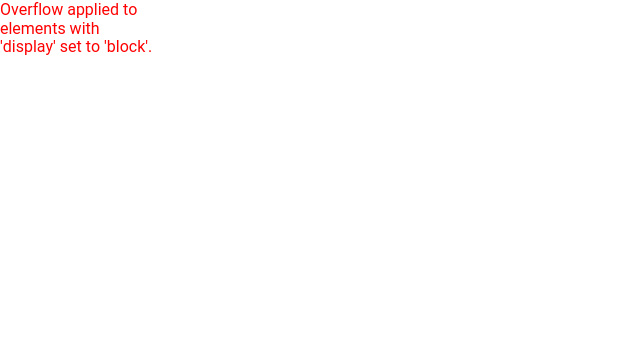
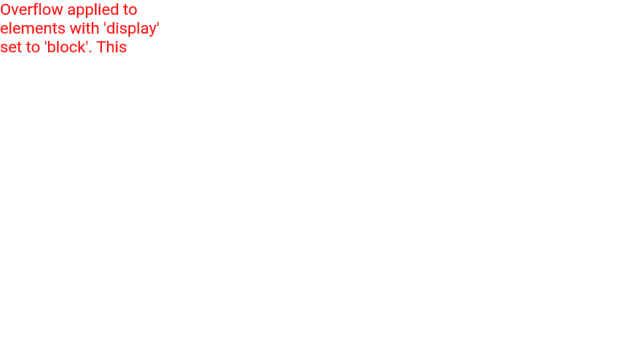
Fix trailing white space text splitting bug
Previously, trailing white space was being included when determining
if a soft wrap segment could fit within the available width on a line.
However, this meant that we were incorrectly rejecting soft wrap
segments that would fit after their trailing white space had been
collapsed. Now, trailing white space is not factored in when
determining if a soft wrap segment can fit on a line in the case where
it will subsequently be collapsed. This fixes b/25501594.

Additionally, a layout test has been added for this case.

Changed region(s): [[0.0, 0.0, 0.25, 0.1528]]

diff --git a/cobalt/layout_tests/testdata/css-text-3/5-collapsible-trailing-white-space-should-not-prevent-soft-wrap-opportunity.html b/cobalt/layout_tests/testdata/css-text-3/5-collapsible-trailing-white-space-should-not-prevent-soft-wrap-opportunity.html
@@ -1,0 +1,33 @@
+<!DOCTYPE html>
+<!--
+ | Wrapping is only performed at an allowed break point, called a soft wrap
+ | opportunity. In most writing systems, in the absence of hyphenation a soft
+ | wrap opportunity occurs only at word boundaries.
+ |   https://www.w3.org/TR/css3-text/#soft-wrap-opportunity
+ |
+ | When a soft wrap segment is being checked, trailing white space that will
+ | collapsed should not be included in the width when determining whether the
+ | segment can fit on the line.
+ -->
+<html>
+<head>
+  <style>
+    div {
+      font-size: 20px;
+      overflow-wrap: break-word;
+    }
+    .containing-block {
+      background-color: #03a9f4;
+      width: 202px;
+    }
+  </style>
+</head>
+<body>
+  <div class="containing-block">
+    <div>abc<span>defg hijklmnopqrst uvwxyz</span></div>
+    <div>abc<span>defg hijklmnopqrst </span></div>
+    <div><span>abc</span>defg hijklmnopqrst uvwxyz</div>
+    <div><span>abc</span>defg hijklmnopqrst </div>
+  </div>
+</body>
+</html>

diff --git a/cobalt/layout_tests/testdata/cssom-view/extensions_to_the_element_interface_get_bounding_client_rect_with_box_splitting.html b/cobalt/layout_tests/testdata/cssom-view/extensions_to_the_element_interface_get_bounding_client_rect_with_box_splitting.html
@@ -72,7 +72,7 @@
     <span id="span-1">Yes, that's written ما اسمك؟ Thanks.</span>
   </div>
   <div id="div-2" class="absolutely-positioned-2">
-    <span id="span-2">Yes, that's written like that in English.</span>
+    <span id="span-2">Yes, it's written like that.</span>
   </div>
 </body>
 </html>

diff --git a/cobalt/layout_tests/testdata/cssom-view/extensions_to_the_html_element_interface_offset_width_height_with_box_splitting.html b/cobalt/layout_tests/testdata/cssom-view/extensions_to_the_html_element_interface_offset_width_height_with_box_splitting.html
@@ -67,7 +67,7 @@
     <span id="span-1">Yes, that's written ما اسمك؟ Thanks.</span>
   </div>
   <div id="div-2" class="absolutely-positioned-2">
-    <span id="span-2">Yes, that's written like that in English.</span>
+    <span id="span-2">Yes, it's written like that.</span>
   </div>
 </body>
 </html>

diff --git a/cobalt/layout/paragraph.cc b/cobalt/layout/paragraph.cc
@@ -17,9 +17,9 @@
 #include "cobalt/layout/paragraph.h"
 
 #include "base/i18n/char_iterator.h"
+#include "cobalt/base/unicode/character.h"
 
 #include "third_party/icu/public/common/unicode/ubidi.h"
-
 
 namespace cobalt {
 namespace layout {
@@ -76,10 +76,10 @@ int32 Paragraph::AppendCodePoint(CodePoint code_point) {
   if (!is_closed_) {
     switch (code_point) {
       case kLineFeedCodePoint:
-        unicode_text_ += UChar(0x0a);
+        unicode_text_ += base::unicode::kNewlineCharacter;
         break;
       case kObjectReplacementCharacterCodePoint:
-        unicode_text_ += UChar(0xfffc);
+        unicode_text_ += base::unicode::kObjectReplacementCharacter;
         break;
     }
   }
@@ -88,8 +88,9 @@ int32 Paragraph::AppendCodePoint(CodePoint code_point) {
 
 bool Paragraph::FindBreakPosition(const scoped_refptr<dom::FontList>& used_font,
                                   int32 start_position, int32 end_position,
-                                  float available_width, bool allow_overflow,
-                                  BreakPolicy break_policy,
+                                  float available_width,
+                                  bool should_collapse_trailing_white_space,
+                                  bool allow_overflow, BreakPolicy break_policy,
                                   int32* break_position, float* break_width) {
   DCHECK(is_closed_);
 
@@ -113,7 +114,8 @@ bool Paragraph::FindBreakPosition(const scoped_refptr<dom::FontList>& used_font,
   // position.
   FindIteratorBreakPosition(
       used_font, line_break_iterator_, start_position, end_position,
-      available_width, allow_soft_wrap_overflow, break_position, break_width);
+      available_width, should_collapse_trailing_white_space,
+      allow_soft_wrap_overflow, break_position, break_width);
 
   // Only continue allowing overflow if the break position has not moved from
   // start, meaning that no break position has been found yet.
@@ -130,9 +132,9 @@ bool Paragraph::FindBreakPosition(const scoped_refptr<dom::FontList>& used_font,
   // (https://www.w3.org/TR/css3-text/#overflow-wrap).
   if ((break_policy == kBreakWord) ||
       (break_policy == kSoftWrapWithBreakWordOnOverflow && allow_overflow)) {
-    FindIteratorBreakPosition(used_font, character_break_iterator_,
-                              *break_position, end_position, available_width,
-                              allow_overflow, break_position, break_width);
+    FindIteratorBreakPosition(
+        used_font, character_break_iterator_, *break_position, end_position,
+        available_width, false, allow_overflow, break_position, break_width);
   }
 
   // No usable break position was found if the break position has not moved
@@ -185,8 +187,11 @@ bool Paragraph::IsRTL(int32 position) const {
   return (GetBidiLevel(position) % 2) == 1;
 }
 
-bool Paragraph::IsSpace(int32 position) const {
-  return unicode_text_[position] == ' ';
+bool Paragraph::IsCollapsibleWhiteSpace(int32 position) const {
+  // Only check for the space character. Other collapsible white space
+  // characters will have already been converted into the space characters and
+  // do not need to be checked against.
+  return unicode_text_[position] == base::unicode::kSpaceCharacter;
 }
 
 bool Paragraph::GetNextRunPosition(int32 position,
@@ -215,7 +220,8 @@ bool Paragraph::IsClosed() const { return is_closed_; }
 void Paragraph::FindIteratorBreakPosition(
     const scoped_refptr<dom::FontList>& used_font,
     icu::BreakIterator* const break_iterator, int32 start_position,
-    int32 end_position, float available_width, bool allow_overflow,
+    int32 end_position, float available_width,
+    bool should_collapse_trailing_white_space, bool allow_overflow,
     int32* break_position, float* break_width) {
   // Iterate through soft wrap locations, beginning from the passed in start
   // position. Continue until TryIncludeSegmentWithinAvailableWidth() returns
@@ -226,7 +232,8 @@ void Paragraph::FindIteratorBreakPosition(
        segment_end = break_iterator->next()) {
     if (!TryIncludeSegmentWithinAvailableWidth(
             used_font, *break_position, segment_end, available_width,
-            &allow_overflow, break_position, break_width)) {
+            should_collapse_trailing_white_space, &allow_overflow,
+            break_position, break_width)) {
       break;
     }
   }
@@ -234,7 +241,8 @@ void Paragraph::FindIteratorBreakPosition(
 
 bool Paragraph::TryIncludeSegmentWithinAvailableWidth(
     const scoped_refptr<dom::FontList>& used_font, int32 segment_start,
-    int32 segment_end, float available_width, bool* allow_overflow,
+    int32 segment_end, float available_width,
+    bool should_collapse_trailing_white_space, bool* allow_overflow,
     int32* break_position, float* break_width) {
   // Add the width of the segment encountered to the total, until reaching one
   // that causes the available width to be exceeded. The previous break position
@@ -244,7 +252,19 @@ bool Paragraph::TryIncludeSegmentWithinAvailableWidth(
       unicode_text_.getBuffer() + segment_start, segment_end - segment_start,
       IsRTL(segment_start), NULL);
 
-  if (!*allow_overflow && *break_width + segment_width > available_width) {
+  // If trailing white space is being collapsed, then it will not be included
+  // when determining if the segment can fit within the available width.
+  // However, it is still added to |break_width|, as it will impact the
+  // width available to additional segments.
+  float collapsible_trailing_white_space_width =
+      should_collapse_trailing_white_space &&
+              IsCollapsibleWhiteSpace(segment_end - 1)
+          ? used_font->GetSpaceWidth()
+          : 0;
+
+  if (!*allow_overflow &&
+      *break_width + segment_width - collapsible_trailing_white_space_width >
+          available_width) {
     return false;
   }
 

diff --git a/cobalt/layout/paragraph.h b/cobalt/layout/paragraph.h
@@ -100,9 +100,10 @@ class Paragraph : public base::RefCounted<Paragraph> {
   // Returns false if no usable break position was found.
   bool FindBreakPosition(const scoped_refptr<dom::FontList>& used_font,
                          int32 start_position, int32 end_position,
-                         float available_width, bool allow_overflow,
-                         BreakPolicy break_policy, int32* break_position,
-                         float* break_width);
+                         float available_width,
+                         bool should_collapse_trailing_white_space,
+                         bool allow_overflow, BreakPolicy break_policy,
+                         int32* break_position, float* break_width);
 
   std::string RetrieveUtf8SubString(int32 start_position,
                                     int32 end_position) const;
@@ -114,7 +115,7 @@ class Paragraph : public base::RefCounted<Paragraph> {
   BaseDirection GetBaseDirection() const;
   int GetBidiLevel(int32 position) const;
   bool IsRTL(int32 position) const;
-  bool IsSpace(int32 position) const;
+  bool IsCollapsibleWhiteSpace(int32 position) const;
   bool GetNextRunPosition(int32 position, int32* next_run_position) const;
   int32 GetTextEndPosition() const;
 
@@ -137,19 +138,24 @@ class Paragraph : public base::RefCounted<Paragraph> {
   // Iterate over text segments as determined by the break iterator's strategy
   // from the starting position, adding the width of each segment and
   // determining the last one that fits within the available width. In the case
-  // where |allow_overflow| is true and  the first segment overflows the width,
+  // where |allow_overflow| is true and the first segment overflows the width,
   // that first overflowing segment will be included. The parameter
   // |break_width| indicates the width of the portion of the substring coming
   // before |break_position|.
   void FindIteratorBreakPosition(const scoped_refptr<dom::FontList>& used_font,
                                  icu::BreakIterator* const break_iterator,
                                  int32 start_position, int32 end_position,
-                                 float available_width, bool allow_overflow,
-                                 int32* break_position, float* break_width);
+                                 float available_width,
+                                 bool should_collapse_trailing_white_space,
+                                 bool allow_overflow, int32* break_position,
+                                 float* break_width);
 
   // Attempt to include the specified segment within the available width. If
   // either the segment fits within the width or |allow_overflow| is true, then
   // |break_position| and |break_width| are updated to include the segment.
+  // NOTE: When |should_collapse_trailing_white_space| is true, then trailing
+  // white space in the segment is not included when determining if the segment
+  // can fit within the available width.
   //
   // |allow_overflow| is always set to false after the first segment is added,
   // ensuring that only the first segment can overflow the available width.
@@ -160,7 +166,8 @@ class Paragraph : public base::RefCounted<Paragraph> {
   // that no additional segments can be included.
   bool TryIncludeSegmentWithinAvailableWidth(
       const scoped_refptr<dom::FontList>& used_font, int32 start_position,
-      int32 end_position, float available_width, bool* allow_overflow,
+      int32 end_position, float available_width,
+      bool should_collapse_trailing_white_space, bool* allow_overflow,
       int32* break_position, float* break_width);
 
   void GenerateBidiLevelRuns();

diff --git a/cobalt/layout/text_box.cc b/cobalt/layout/text_box.cc
@@ -152,8 +152,9 @@ void TextBox::UpdateContentSizeAndMargins(const LayoutParams& layout_params) {
             GetTrailingWhiteSpaceWidth());
 }
 
-scoped_refptr<Box> TextBox::TrySplitAt(float available_width,
-                                       bool allow_overflow) {
+scoped_refptr<Box> TextBox::TrySplitAt(
+    float available_width, bool should_collapse_trailing_white_space,
+    bool allow_overflow) {
   if (!WhiteSpaceStyleAllowsWrapping()) {
     return scoped_refptr<Box>();
   }
@@ -177,7 +178,8 @@ scoped_refptr<Box> TextBox::TrySplitAt(float available_width,
 
   if (paragraph_->FindBreakPosition(
           used_font_, start_position, text_end_position_, available_width,
-          allow_overflow, break_policy, &split_position, &split_width)) {
+          should_collapse_trailing_white_space, allow_overflow, break_policy,
+          &split_position, &split_width)) {
     return SplitAtPosition(split_position);
   }
 
@@ -441,7 +443,7 @@ void TextBox::DoPlaceEllipsisOrProcessPlacedEllipsis(
   // text box. Otherwise, it can only appear after the first character
   // (https://www.w3.org/TR/css3-ui/#propdef-text-overflow).
   if (paragraph_->FindBreakPosition(
-          used_font_, start_position, end_position, desired_offset,
+          used_font_, start_position, end_position, desired_offset, false,
           !(*is_placement_requirement_met), Paragraph::kBreakWord,
           &found_position, &found_offset)) {
     *placed_offset = found_offset + content_box_offset;
@@ -484,15 +486,16 @@ bool TextBox::WhiteSpaceStyleAllowsWrapping() {
 }
 
 void TextBox::UpdateTextHasLeadingWhiteSpace() {
-  text_has_leading_white_space_ = text_start_position_ != text_end_position_ &&
-                                  paragraph_->IsSpace(text_start_position_) &&
-                                  WhiteSpaceStyleAllowsCollapsing();
+  text_has_leading_white_space_ =
+      text_start_position_ != text_end_position_ &&
+      paragraph_->IsCollapsibleWhiteSpace(text_start_position_) &&
+      WhiteSpaceStyleAllowsCollapsing();
 }
 
 void TextBox::UpdateTextHasTrailingWhiteSpace() {
   text_has_trailing_white_space_ =
       !has_trailing_line_break_ && text_start_position_ != text_end_position_ &&
-      paragraph_->IsSpace(text_end_position_ - 1) &&
+      paragraph_->IsCollapsibleWhiteSpace(text_end_position_ - 1) &&
       WhiteSpaceStyleAllowsCollapsing();
 }
 

diff --git a/cobalt/layout/box.h b/cobalt/layout/box.h
@@ -231,15 +231,19 @@ class Box : public base::RefCounted<Box> {
   virtual float GetInlineLevelTopMargin() const;
 
   // Attempts to split the box, so that the part before the split would fit
-  // the available width. However, if |allow_overflow| is true, then the split
-  // is permitted to overflow the available width if no smaller split is
-  // available.
+  // the available width.
+  // If |should_collapse_trailing_white_space| is true, then the trailing white
+  // space within the part before the split is not included when determining if
+  // it will fit within the available width.
+  // If |allow_overflow| is true, then the split is permitted to overflow the
+  // available width if no smaller split is available.
   //
   // Returns the part after the split if the split succeeded.
   //
   // Note that only inline boxes are splittable.
-  virtual scoped_refptr<Box> TrySplitAt(float available_width,
-                                        bool allow_overflow) = 0;
+  virtual scoped_refptr<Box> TrySplitAt(
+      float available_width, bool should_collapse_trailing_white_space,
+      bool allow_overflow) = 0;
 
   // Returns the next box in a linked list of sibling boxes produced from
   // splits of the original box. This enables HTMLElement to retain access to

diff --git a/cobalt/layout/inline_container_box.cc b/cobalt/layout/inline_container_box.cc
@@ -177,8 +177,9 @@ void InlineContainerBox::UpdateContentSizeAndMargins(
   baseline_offset_from_margin_box_top_ = line_box.baseline_offset_from_top();
 }
 
-scoped_refptr<Box> InlineContainerBox::TrySplitAt(float available_width,
-                                                  bool allow_overflow) {
+scoped_refptr<Box> InlineContainerBox::TrySplitAt(
+    float available_width, bool should_collapse_trailing_white_space,
+    bool allow_overflow) {
   DCHECK_GT(GetMarginBoxWidth(), available_width);
 
   available_width -= GetContentBoxLeftEdgeOffsetFromMarginBox();
@@ -201,8 +202,9 @@ scoped_refptr<Box> InlineContainerBox::TrySplitAt(float available_width,
     // Split the first child that overflows the available width.
     // Leave its part before the split in this box.
     if (available_width < margin_box_width_of_child_box) {
-      scoped_refptr<Box> child_box_after_split =
-          child_box->TrySplitAt(available_width, allow_overflow);
+      scoped_refptr<Box> child_box_after_split = child_box->TrySplitAt(
+          available_width, should_collapse_trailing_white_space,
+          allow_overflow);
       if (child_box_after_split) {
         ++child_box_iterator;
         child_box_iterator =

diff --git a/cobalt/layout/line_box.cc b/cobalt/layout/line_box.cc
@@ -130,12 +130,19 @@ bool LineBox::TryBeginUpdateRectAndMaybeSplit(
 
   // When an inline box exceeds the width of a line box, it is split.
   //   https://www.w3.org/TR/CSS21/visuren.html#inline-formatting
-  *child_box_after_split =
-      child_box->TrySplitAt(available_width, allow_overflow);
+  *child_box_after_split = child_box->TrySplitAt(
+      available_width, should_collapse_trailing_white_space_, allow_overflow);
 
   // A split occurred, need to re-measure the child box.
   if (*child_box_after_split != NULL) {
     BeginUpdateRectAndMaybeOverflow(child_box);
+
+    // If trailing white space is being collapsed, then the child box can exceed
+    // the available width prior to white space being collapsed. So the DCHECK
+    // is only valid if the box's whitespace is collapsed prior to it.
+    // if (should_collapse_trailing_white_space_) {
+    //  CollapseTrailingWhiteSpace();
+    //}
     // TODO(***REMOVED***): Re-enable the DCHECK() below after implementing b/27134223.
     // DCHECK(child_box->GetMarginBoxWidth() <= available_width ||
     //        allow_overflow);

diff --git a/cobalt/layout/inline_container_box.h b/cobalt/layout/inline_container_box.h
@@ -47,8 +47,9 @@ class InlineContainerBox : public ContainerBox {
   Level GetLevel() const OVERRIDE;
 
   void UpdateContentSizeAndMargins(const LayoutParams& layout_params) OVERRIDE;
-  scoped_refptr<Box> TrySplitAt(float available_width,
-                                bool allow_overflow) OVERRIDE;
+  scoped_refptr<Box> TrySplitAt(
+      float available_width, bool allow_overflow,
+      bool should_collapse_trailing_white_space) OVERRIDE;
   Box* GetSplitSibling() const OVERRIDE;
 
   bool DoesFulfillEllipsisPlacementRequirement() const OVERRIDE;

diff --git a/cobalt/layout/block_container_box.cc b/cobalt/layout/block_container_box.cc
@@ -238,8 +238,9 @@ void BlockContainerBox::UpdateContentSizeAndMargins(
   }
 }
 
-scoped_refptr<Box> BlockContainerBox::TrySplitAt(float /*available_width*/,
-                                                 bool /*allow_overflow*/) {
+scoped_refptr<Box> BlockContainerBox::TrySplitAt(
+    float /*available_width*/, bool /*should_collapse_trailing_white_space*/,
+    bool /*allow_overflow*/) {
   return scoped_refptr<Box>();
 }
 

diff --git a/cobalt/layout/block_container_box.h b/cobalt/layout/block_container_box.h
@@ -47,6 +47,7 @@ class BlockContainerBox : public ContainerBox {
   // From |Box|.
   void UpdateContentSizeAndMargins(const LayoutParams& layout_params) OVERRIDE;
   scoped_refptr<Box> TrySplitAt(float available_width,
+                                bool should_collapse_trailing_white_space,
                                 bool allow_overflow) OVERRIDE;
 
   scoped_refptr<Box> TrySplitAtSecondBidiLevelRun() OVERRIDE;
